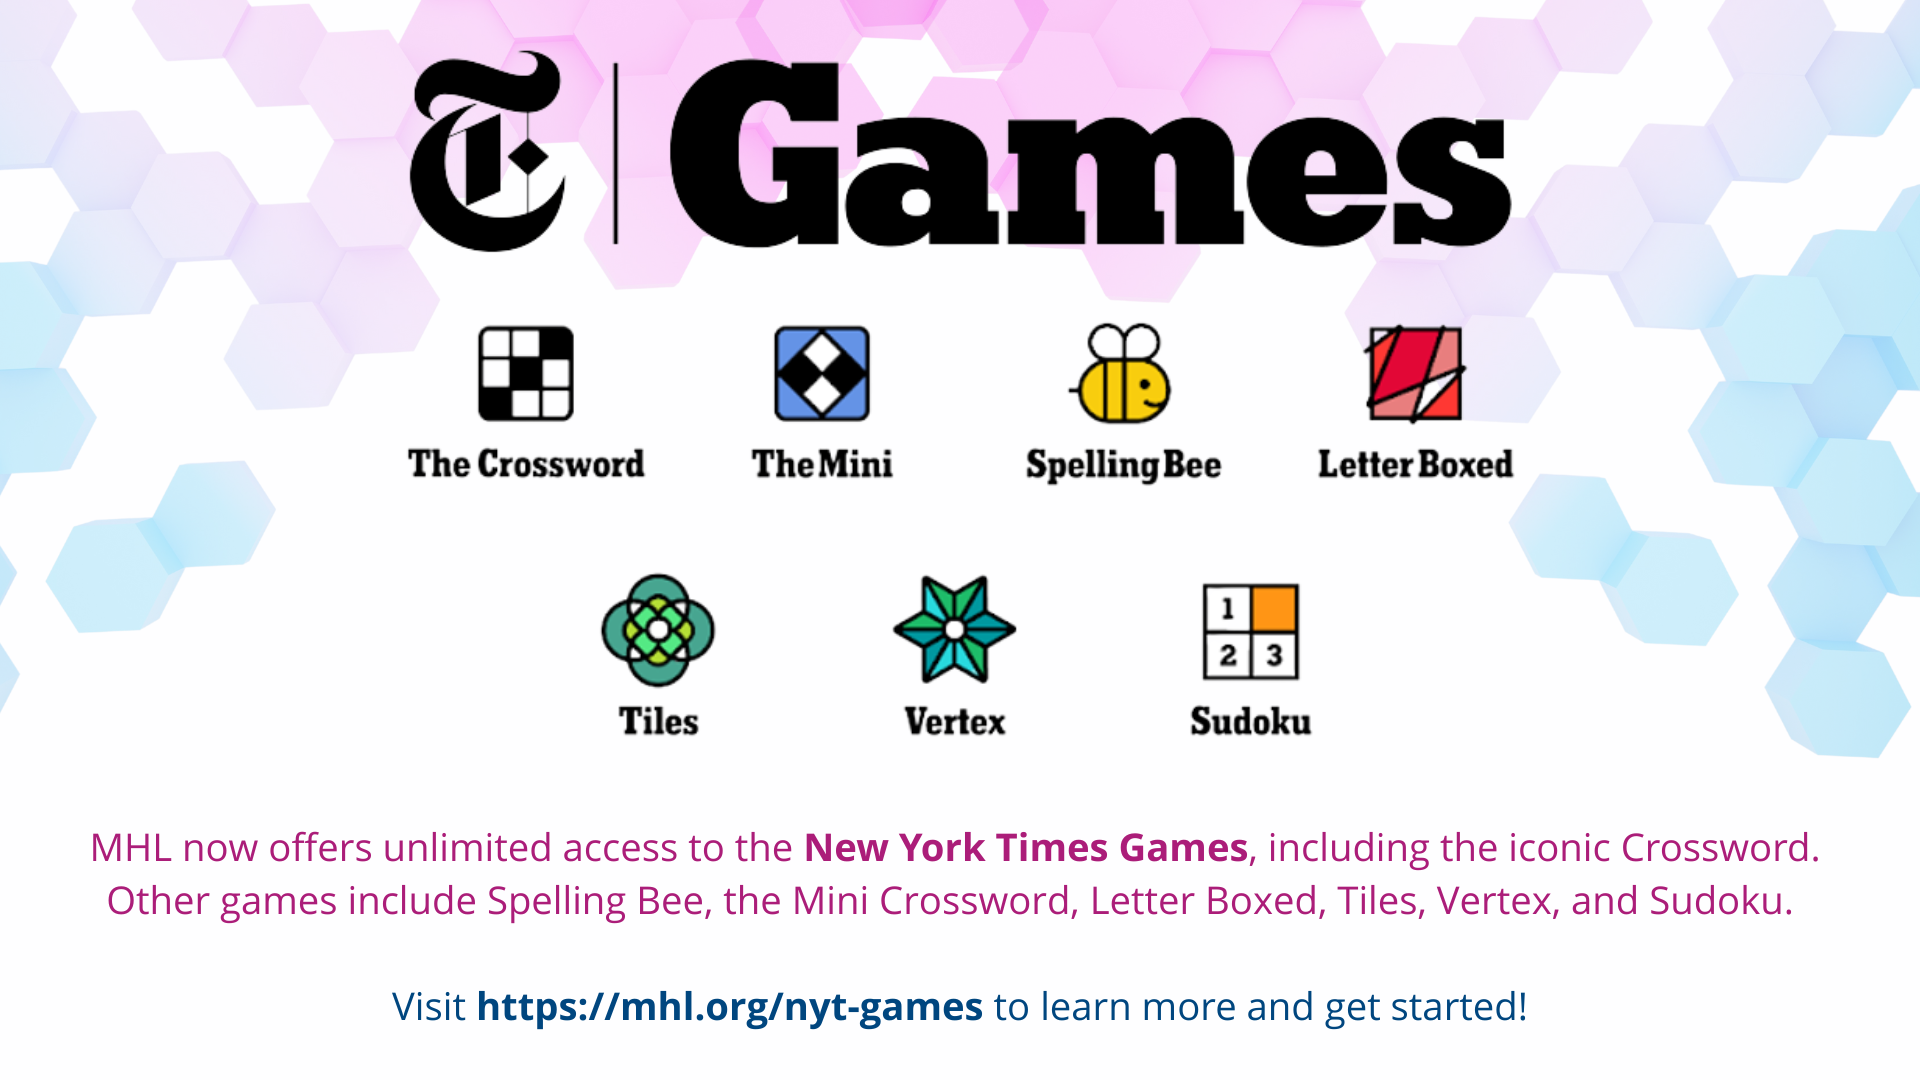
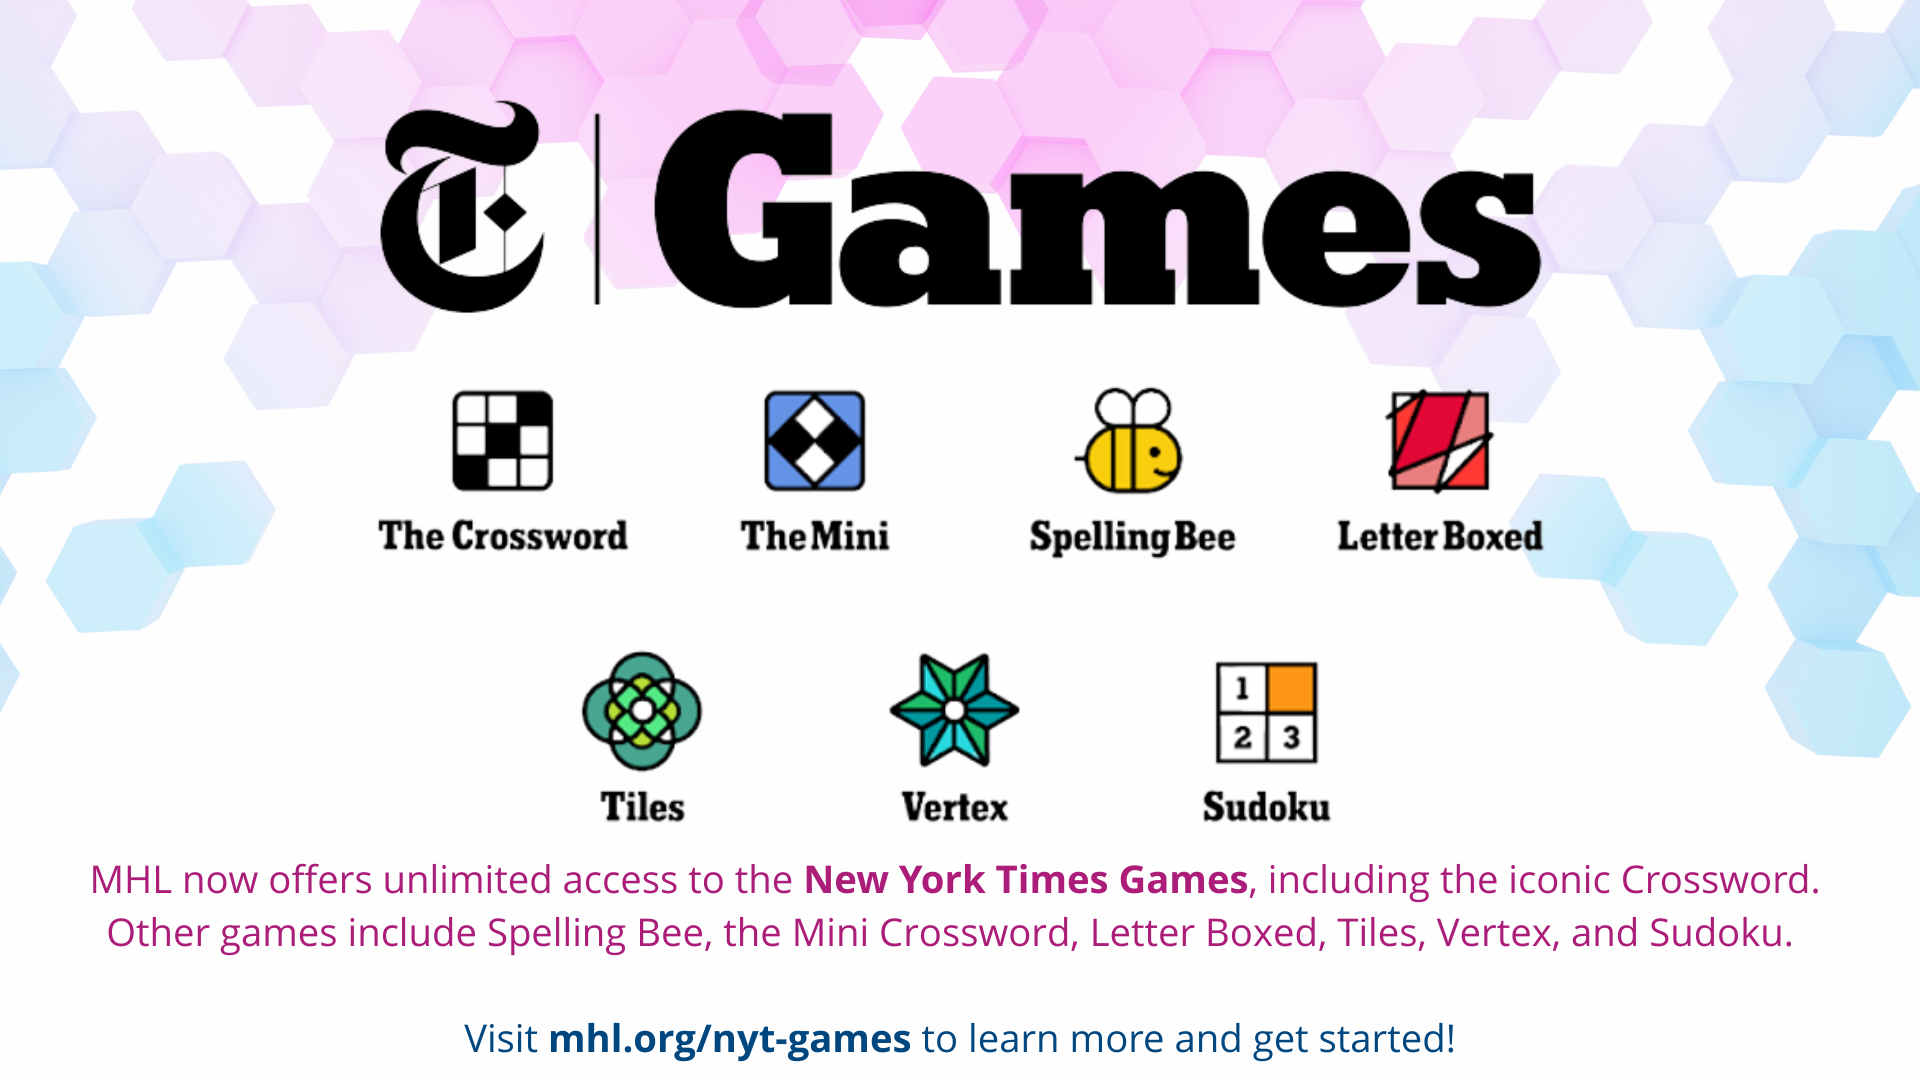
Changed timer to 6 seconds and redid NYT games img

diff --git a/slideshow.py b/slideshow.py
@@ -40,7 +40,7 @@ class gui:
         self.img.config(image = self.render)
         
         self.img.image = self.render
-        root.after(5000, self.pic)
+        root.after(6000, self.pic)
 
 def close_escape(event=None):
     print("escaped")
